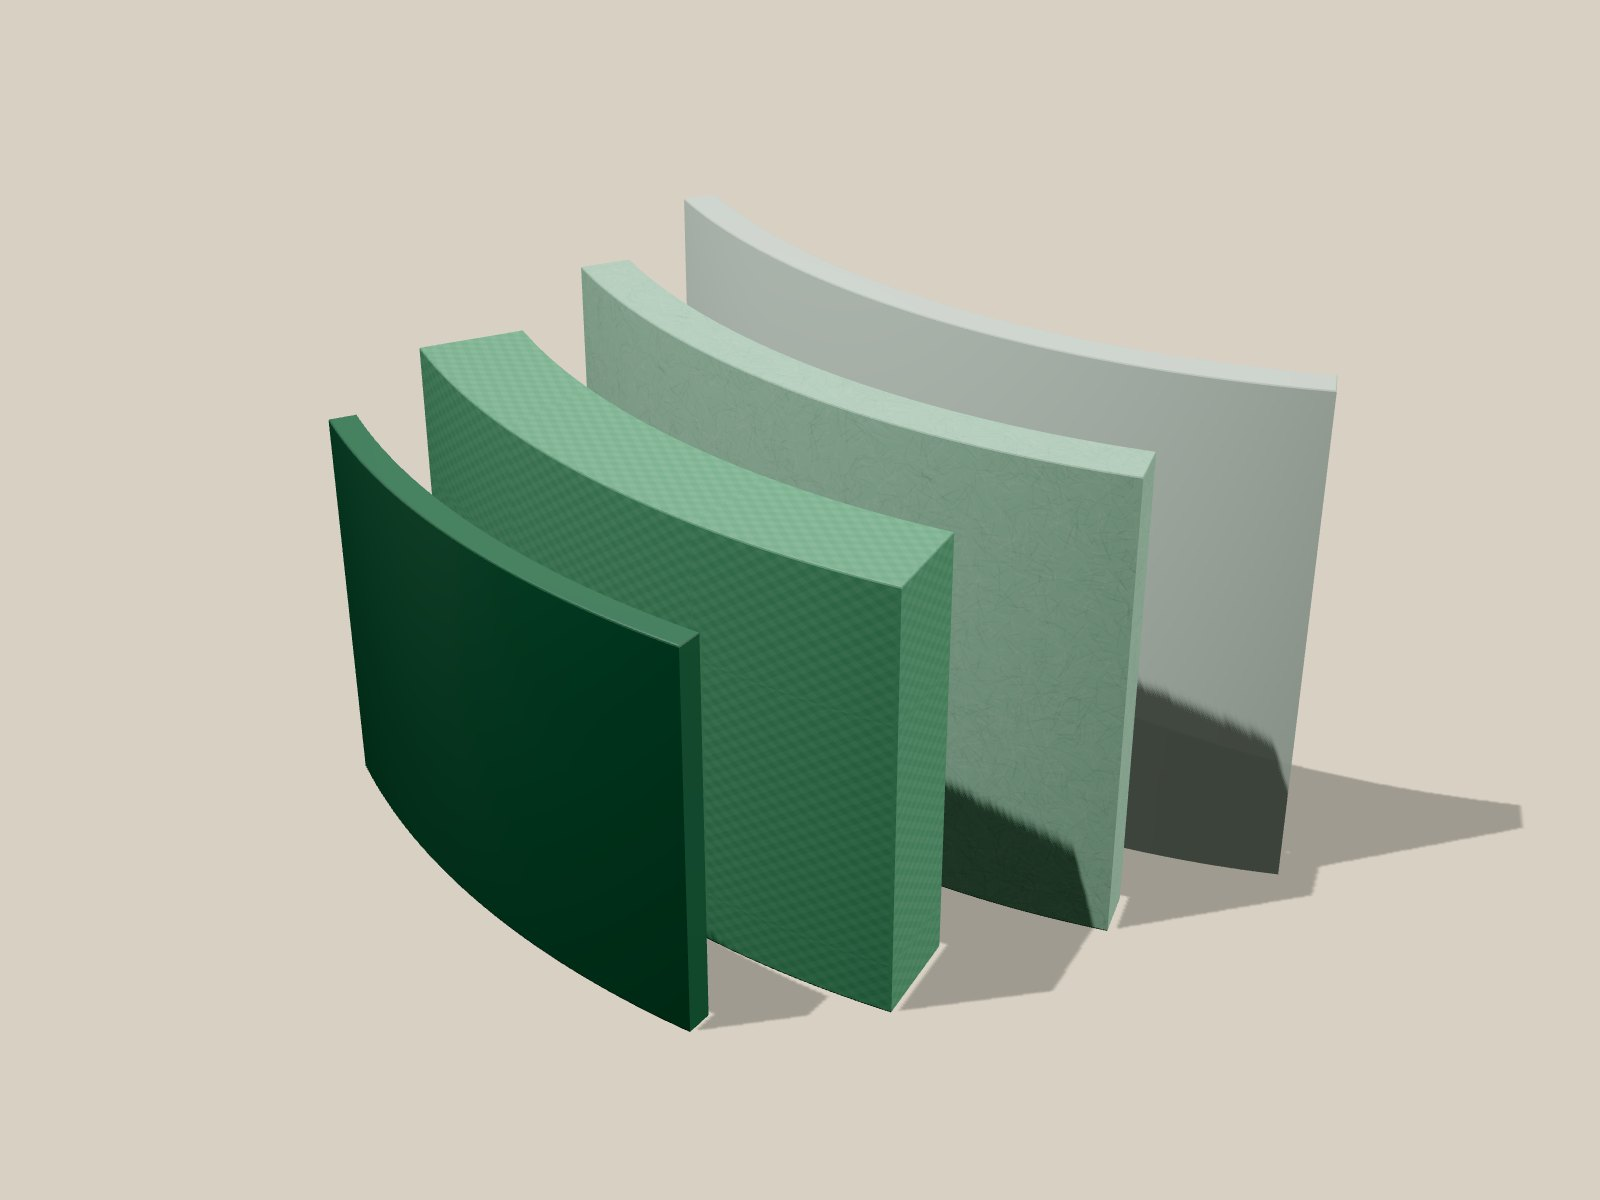
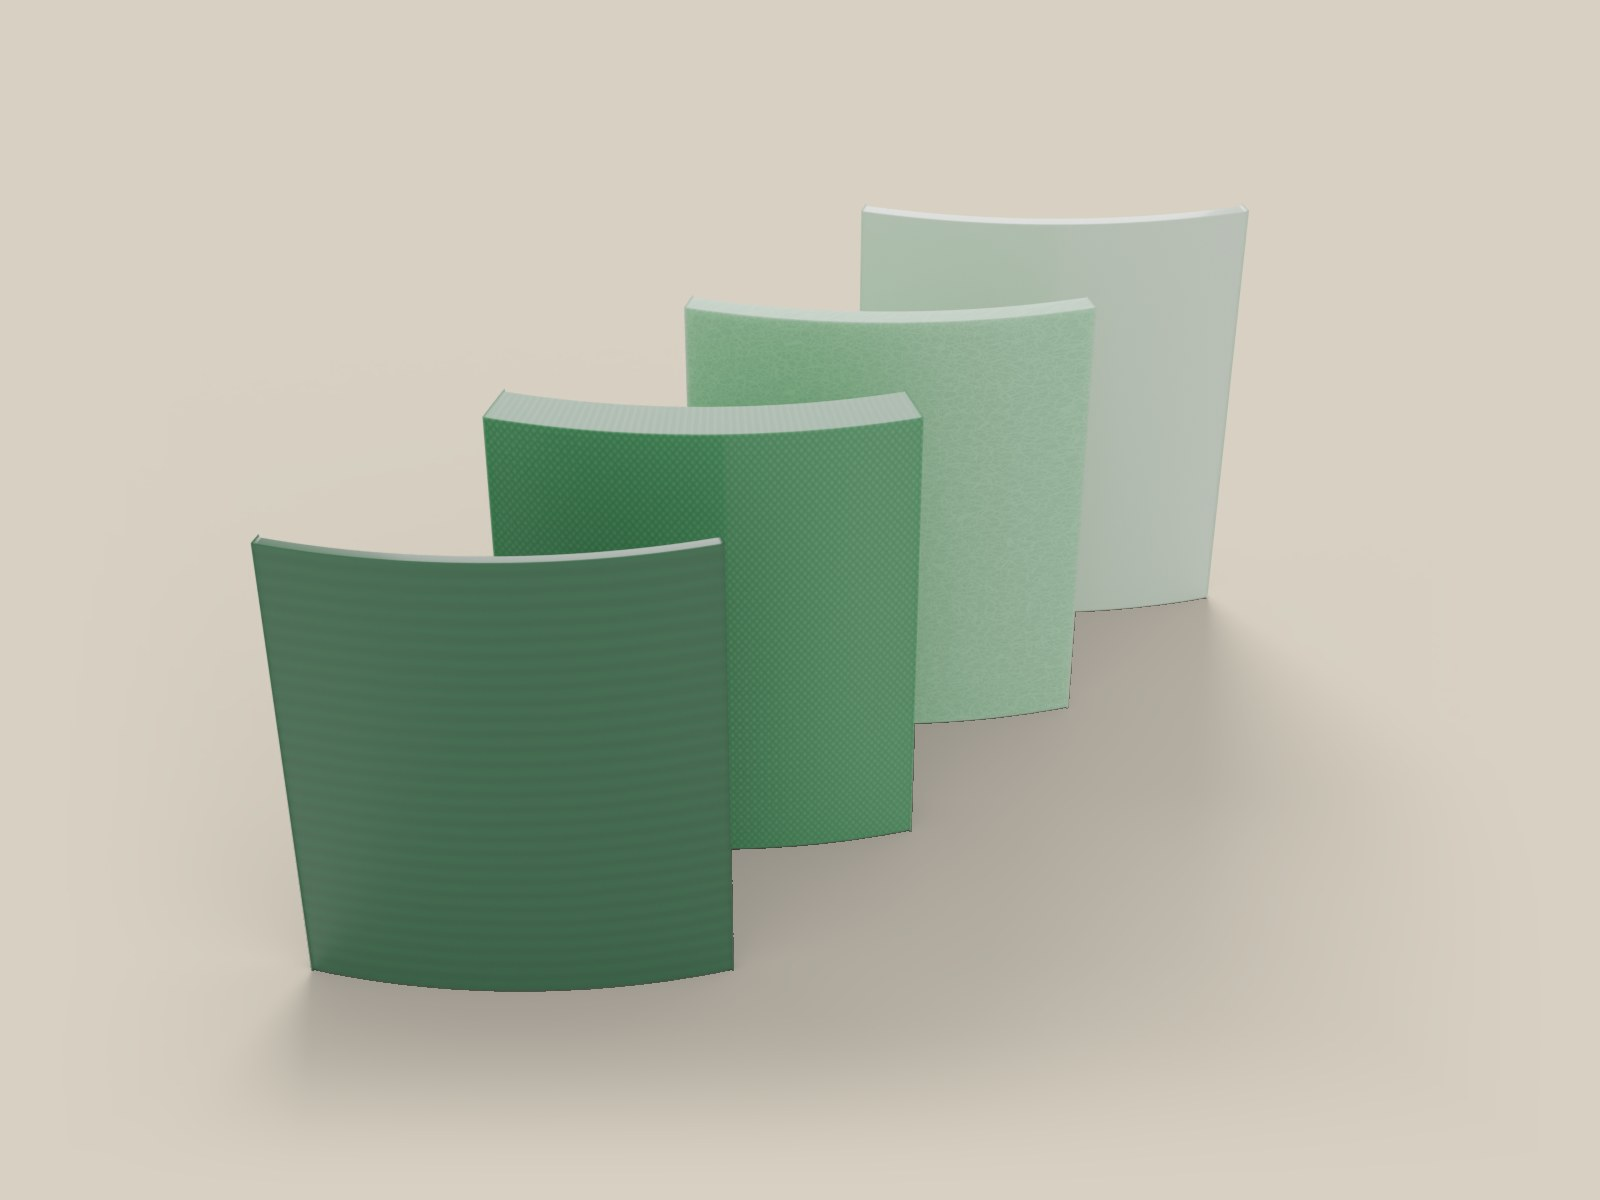
feat(renders): the wall sections, rendered in Blender
The home page's Materials cards show each wall as its layers, fanned like
a deck of cards, outer face at the front left. Each layer is now made of
what it is rather than a flat tint, in the order, thickness and tone that
src/content/materials.ts gives the live viewer:

- FRP: a glossy veil-rich liner, chopped strand mat, crossing
  filament-wound rovings, the gel-coat exterior
- GLS: an enamel coat either side of a thick steel substrate
- SS: a mirror product-contact surface, the brushed shell, a dimple
  jacket, mineral wool under stainless cladding (stopped short so the
  wool shows)

They're rendered over a shadow catcher and laid onto the cards' cream
(#d8d1c3) in numpy after the render, so the ground matches the page
exactly. The shadows are kept light and fade out before the frame, so
the image has no edge against the page.

diff --git a/scripts/blender/renders.py b/scripts/blender/renders.py
@@ -1097,6 +1097,173 @@ def ss_macro():
 
 SHOTS.update({"frp-macro": frp_macro, "gls-macro": gls_macro, "ss-macro": ss_macro})
 
+# ---------------------------------------------------------------- wall sections: exploded layers on the cards' cream
+CREAM = "#d8d1c3"  # the Materials section's ground (src/styles/global.css, .tone-light --paper)
+
+
+def light_studio(target, cam_from, lens=50):
+    """Soft daylight studio for the cream cards: transparent film over a shadow-catcher floor (composited onto CREAM after)."""
+    sc = bpy.context.scene
+    world = bpy.data.worlds.new("day")
+    world.use_nodes = True
+    world.node_tree.nodes["Background"].inputs["Color"].default_value = (*srgb_to_lin(hexc("#ece6da")), 1)
+    world.node_tree.nodes["Background"].inputs["Strength"].default_value = 0.9  # bright ambient: the floor's shadows stay light
+    sc.world = world
+    bpy.ops.mesh.primitive_plane_add(size=40, location=(0, 0, 0))
+    floor = bpy.context.active_object
+    floor.is_shadow_catcher = True
+    sc.render.film_transparent = True
+    t = Vector(target)
+    side = Vector(cam_from) - t
+    side.z = 0
+    side.normalize()
+    left = Vector((-side.y, side.x, 0))
+
+    def area(name, loc, size, power):
+        L = bpy.data.lights.new(name, "AREA")
+        L.energy, L.size = power, size
+        o = bpy.data.objects.new(name, L)
+        o.location = loc
+        sc.collection.objects.link(o)
+        e = bpy.data.objects.new(name + "_aim", None)
+        e.location = target
+        sc.collection.objects.link(e)
+        c = o.constraints.new("TRACK_TO")
+        c.target = e
+
+    area("key", t + side * 1.5 + left * 2.5 + Vector((0, 0, 6)), 10, 300)  # high and large: short, soft shadows
+    area("fill", t + side * 5 - left * 3 + Vector((0, 0, 1.5)), 6, 60)
+    area("rim", t - side * 4 + Vector((0, 0, 3)), 3, 220)
+    cam = bpy.data.objects.new("cam", bpy.data.cameras.new("cam"))
+    cam.data.lens = lens
+    cam.location = cam_from
+    sc.collection.objects.link(cam)
+    e = bpy.data.objects.new("cam_aim", None)
+    e.location = target
+    sc.collection.objects.link(e)
+    c = cam.constraints.new("TRACK_TO")
+    c.target = e
+    sc.camera = cam
+    sc.render.engine = "CYCLES"
+    sc.cycles.samples = SAMPLES
+    sc.cycles.use_denoising = True
+    sc.cycles.device = "CPU"
+    if os.environ.get("RENDER_GPU"):
+        prefs = bpy.context.preferences.addons["cycles"].preferences
+        prefs.compute_device_type = os.environ["RENDER_GPU"]
+        prefs.get_devices()
+        for dev in prefs.devices:
+            dev.use = True
+        sc.cycles.device = "GPU"
+    sc.render.resolution_x, sc.render.resolution_y = 1600, 1200
+    sc.view_settings.view_transform = "AgX"
+    sc.view_settings.look = "AgX - Base Contrast"
+    sc["bg"] = CREAM  # the main loop composites onto this
+
+
+def dimpled(colour="#a7afb7"):
+    """Dimple jacket: a stainless sheet pressed with a grid of shallow dimples."""
+    def bump(nt, p):
+        v = node(nt, "ShaderNodeTexVoronoi", Scale=38.0, _feature="SMOOTH_F1")
+        v.inputs["Randomness"].default_value = 0.0
+        b = node(nt, "ShaderNodeBump", Strength=0.45, Distance=0.004)
+        nt.links.new(v.outputs["Distance"], b.inputs["Height"])
+        nt.links.new(b.outputs["Normal"], p.inputs["Normal"])
+    return mat("dimple", colour, rough=0.28, metal=1.0, bump=bump)
+
+
+def wool():
+    """Mineral wool: fibrous, matte, a muted straw colour."""
+    m = bpy.data.materials.new("wool")
+    m.use_nodes = True
+    nt = m.node_tree
+    p = nt.nodes["Principled BSDF"]
+    tc = nt.nodes.new("ShaderNodeTexCoord")
+    mp = node(nt, "ShaderNodeMapping")
+    mp.inputs["Scale"].default_value = (40, 40, 260)
+    nt.links.new(tc.outputs["Object"], mp.inputs["Vector"])
+    n = node(nt, "ShaderNodeTexNoise", Scale=1.0, Detail=8.0, Roughness=0.7)
+    nt.links.new(mp.outputs["Vector"], n.inputs["Vector"])
+    r = node(nt, "ShaderNodeMapRange", **{"To Min": 0.7, "To Max": 1.15})
+    nt.links.new(n.outputs["Fac"], r.inputs["Value"])
+    tint = nt.nodes.new("ShaderNodeMix")
+    tint.data_type = "RGBA"
+    tint.blend_type = "MULTIPLY"
+    tint.inputs["Factor"].default_value = 1.0
+    tint.inputs["A"].default_value = (*srgb_to_lin(hexc("#bfae7f")), 1)
+    nt.links.new(r.outputs["Result"], tint.inputs["B"])
+    nt.links.new(tint.outputs["Result"], p.inputs["Base Color"])
+    b = node(nt, "ShaderNodeBump", Strength=0.6, Distance=0.004)
+    nt.links.new(n.outputs["Fac"], b.inputs["Height"])
+    nt.links.new(b.outputs["Normal"], p.inputs["Normal"])
+    p.inputs["Roughness"].default_value = 0.95
+    return m
+
+
+def enamel(colour, name):
+    def peel(nt, p):
+        n = node(nt, "ShaderNodeTexNoise", Scale=120.0, Detail=2.0)
+        b = node(nt, "ShaderNodeBump", Strength=0.05, Distance=0.0006)
+        nt.links.new(n.outputs["Fac"], b.inputs["Height"])
+        nt.links.new(b.outputs["Normal"], p.inputs["Coat Normal"])
+    return mat(name, colour, rough=0.15, coat=1.0, coat_rough=0.04, bump=peel)
+
+
+def steel_substrate():
+    def scale(nt, p):
+        n = node(nt, "ShaderNodeTexNoise", Scale=18.0, Detail=6.0)
+        r = node(nt, "ShaderNodeMapRange", **{"To Min": 0.32, "To Max": 0.6})
+        nt.links.new(n.outputs["Fac"], r.inputs["Value"])
+        nt.links.new(r.outputs["Result"], p.inputs["Roughness"])
+    return mat("steel_sub", "#6b737b", rough=0.45, metal=1.0, bump=scale)
+
+
+SECTION_LAYERS = {
+    # inner → outer, (layer id, weight from src/content/materials.ts, material)
+    "frp": lambda: [("liner", 1.0, mat("liner_sec", "#cfe9d3", rough=0.16, coat=0.6, coat_rough=0.04)),
+                    ("barrier", 1.6, chopped_mat("#8fd0a5")),
+                    ("structural", 3.4, wound(1.3, colour="#3f9e68")),
+                    ("exterior", 0.8, frp_gelcoat("Z", "#1c5e3d"))],
+    "gls": lambda: [("inner-glass", 0.9, enamel("#7fa7c9", "enamel_in")),
+                    ("steel", 3.6, steel_substrate()),
+                    ("outer-glass", 0.9, enamel("#3f6f98", "enamel_out"))],
+    "ss": lambda: [("contact", 0.7, mat("ss_mirror", "#e3e7eb", rough=0.04, metal=1.0)),
+                   ("shell", 2.2, mat("ss_brushed_sec", "#c1c8cf", rough=0.24, metal=1.0)),
+                   ("jacket", 1.1, dimpled()),
+                   ("insulation", 1.3, wool())],
+}
+
+
+def section(slug):
+    def build():
+        layers = SECTION_LAYERS[slug]()
+        n = len(layers)
+        R, unit, H = 1.4, 0.03, 1.0
+        span = math.radians(34)
+        cam_az = math.radians(-35)
+        right = Vector((-math.sin(cam_az), math.cos(cam_az), 0))
+        back = -Vector((math.cos(cam_az), math.sin(cam_az), 0))
+        # fanned like a deck of cards: the outer layer at the front left, each one inside it
+        # stepped back and to the right, all the same curve, so every face shows
+        step = right * 0.36 + back * 0.42
+        for k, (lid, w, m) in enumerate(reversed(layers)):  # outer first
+            t = w * unit
+            off = step * (k - (n - 1) / 2)
+            obs = [sector(f"sec_{lid}", R - t, R, cam_az - span / 2, cam_az + span / 2, 0.0, H, m, segs=96, bevel=0.003)]
+            if lid == "insulation":
+                # the cladding over the wool, stopped short so the wool shows at its edge
+                obs.append(sector("sec_cladding", R, R + 0.004, cam_az - span / 2 + math.radians(8), cam_az + span / 2, 0.0, H, mat("ss_clad_sec", "#c9ced3", rough=0.3, metal=1.0), segs=96, bevel=0.0015))
+            for ob in obs:
+                ob.location = off - Vector((math.cos(cam_az), math.sin(cam_az), 0)) * R
+        tgt = Vector((0, 0, H * 0.48))
+        eye = tgt + Vector((math.cos(cam_az), math.sin(cam_az), 0)) * 4.4 + Vector((0, 0, 3.1))  # high enough to see each layer's thickness on top
+        light_studio(tuple(tgt), tuple(eye), lens=60)
+
+    return build
+
+
+SHOTS.update({"frp-section": section("frp"), "gls-section": section("gls"), "ss-section": section("ss")})
+
 for name, build in SHOTS.items():
     if WANT and name not in WANT:
         continue
@@ -1104,6 +1271,44 @@ for name, build in SHOTS.items():
     build()
     sc = bpy.context.scene
     os.makedirs(OUT, exist_ok=True)
-    sc.render.filepath = os.path.join(os.path.abspath(OUT), name + ".jpg")
-    bpy.ops.render.render(write_still=True)
+    final = os.path.join(os.path.abspath(OUT), name + ".jpg")
+    bg = sc.get("bg")
+    if not bg:
+        sc.render.filepath = final
+        bpy.ops.render.render(write_still=True)
+    else:
+        # transparent render, then laid over the page's own ground colour, exactly
+        import numpy as np
+
+        tmp = os.path.join(bpy.app.tempdir, name + ".png")
+        sc.render.image_settings.file_format = "PNG"
+        sc.render.image_settings.color_mode = "RGBA"
+        sc.render.filepath = tmp
+        bpy.ops.render.render(write_still=True)
+        img = bpy.data.images.load(tmp)
+        img.colorspace_settings.name = "Non-Color"  # take the stored (display) values as they are
+        px = np.array(img.pixels[:], dtype=np.float32).reshape(-1, 4)
+        g = np.array(hexc(bg), dtype=np.float32)
+        a = px[:, 3:4].copy()
+        # the shadow catcher's pixels are pure black with an alpha; keep them at half strength,
+        # so the floor stays the page's cream with a soft shadow, not a grey slab
+        shadow_only = (px[:, :3].max(axis=1, keepdims=True) < 0.015)
+        # and fade the shadow out towards the frame, so the image has no edge against the page
+        h_, w_ = img.size[1], img.size[0]
+        yy, xx = np.mgrid[0:h_, 0:w_]
+        edge = np.minimum.reduce([xx / w_, (w_ - 1 - xx) / w_, yy / h_, (h_ - 1 - yy) / h_]).reshape(-1, 1)
+        fade = np.clip(edge / 0.16, 0, 1)
+        fade = fade * fade * (3 - 2 * fade)
+        a = np.where(shadow_only, a * 0.45 * fade, a)
+        px[:, :3] = px[:, :3] * a + g * (1 - a)
+        px[:, 3] = 1
+        out = bpy.data.images.new(name, img.size[0], img.size[1], alpha=False)
+        out.colorspace_settings.name = "Non-Color"
+        out.pixels[:] = px.ravel()
+        out.file_format = "JPEG"
+        sc.render.image_settings.file_format = "JPEG"
+        sc.render.image_settings.color_mode = "RGB"
+        sc.render.image_settings.quality = 88
+        out.save_render(final, scene=sc)
+    sc.render.filepath = final
     print(f"[renders] {name} → {sc.render.filepath}")
